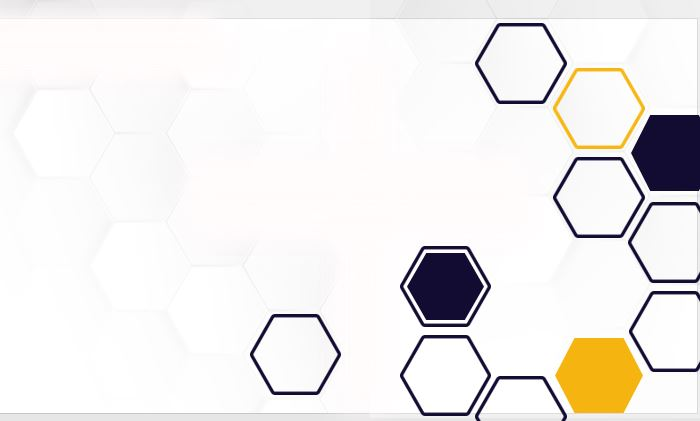
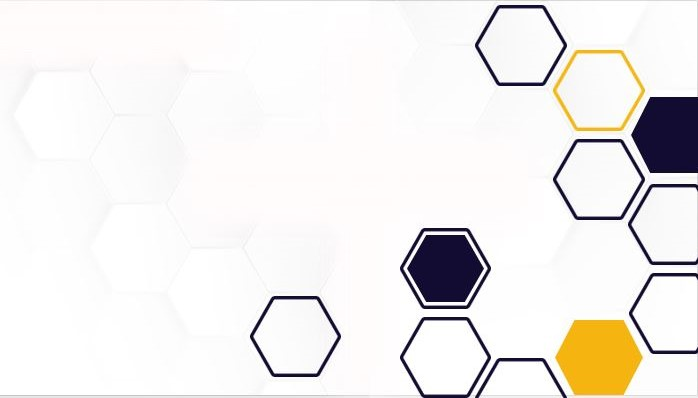
styling fixed

diff --git a/style.css b/style.css
@@ -24,7 +24,8 @@
   width: 100%;
   background: url("imgs/bg2.JPG");
   background-position: center;
-  background-size: cover;
+  background-size: 100% 100%;
+  /* background-size: cover; */
   background-repeat: no-repeat;
   position: sticky;
   overflow: hidden;
@@ -53,7 +54,7 @@
   position: absolute;
   height: 100px;
   width: 100px;
-  top: 8%;
+  top: 10% !important;
   right: 20%;
   opacity: 0;
 }
@@ -67,7 +68,7 @@
   position: absolute;
   height: 100px;
   width: 100px;
-  top: 18%;
+  top: 23% !important;
   right: 10%;
   opacity: 0;
 }
@@ -172,7 +173,7 @@
 /* Medium Screens (1024px to 1439px) */
 @media (min-width: 1024px) and (max-width: 1439px) {
   .content-box1 {
-    top: 4%;
+    top: 5.5% !important;
     right: 20%;
   }
 
@@ -448,7 +449,7 @@
   background-repeat: no-repeat;
   overflow: hidden;
   background-position: center;
-  background-size: cover;
+  background-size: 100% 100%;
   height: 100vh;
   display: flex;
   align-items: center;
@@ -485,8 +486,8 @@
 
 .secondpage-text-content2 {
   position: absolute;
-  top: 70%;
-  left: 44%;
+  top: 66% !important;
+  left: 39%;
 }
 
 .secondpage-text-content1 h5 {
@@ -496,8 +497,8 @@
 
 .secondpage-text-content3 {
   position: absolute;
-  top: 33%;
-  left: 57%;
+  top: 33% !important;
+  left: 53% !important;
   color: #f5b410;
 }
 
@@ -521,25 +522,24 @@
 
 .secondpage-text-content6 {
   position: absolute;
-  top: 63%;
+  top: 66% !important;
   left: 70%;
 }
 
 .secondpage-text-content7 {
   position: absolute;
-  top: 27%;
-  left: 82%;
+  top: 31% !important;
 }
 
 .secondpage-text-content8 {
   position: absolute;
-  top: 7%;
-  left: 79%;
+  top: 10% !important;
+  left: 74.5% !important;
 }
 
 .secondpage-text-content9 {
   position: absolute;
-  top: 17%;
+  top: 22% !important;
   left: 93%;
   color: white;
 }
@@ -553,8 +553,8 @@
 
 .secondpage-text-content11 {
   position: absolute;
-  top: 76%;
-  left: 79%;
+  top: 77% !important;
+  left: 74% !important;
   color: rgb(0, 0, 0);
 }
 
@@ -576,6 +576,11 @@
 
 .secondpage-content-box1 {
   display: none;
+}
+
+/* second page boxes */
+.secondpage-text-contentOne {
+  left: 41% !important;
 }
 
 /* Extra Large Screens (1920px and above) */
